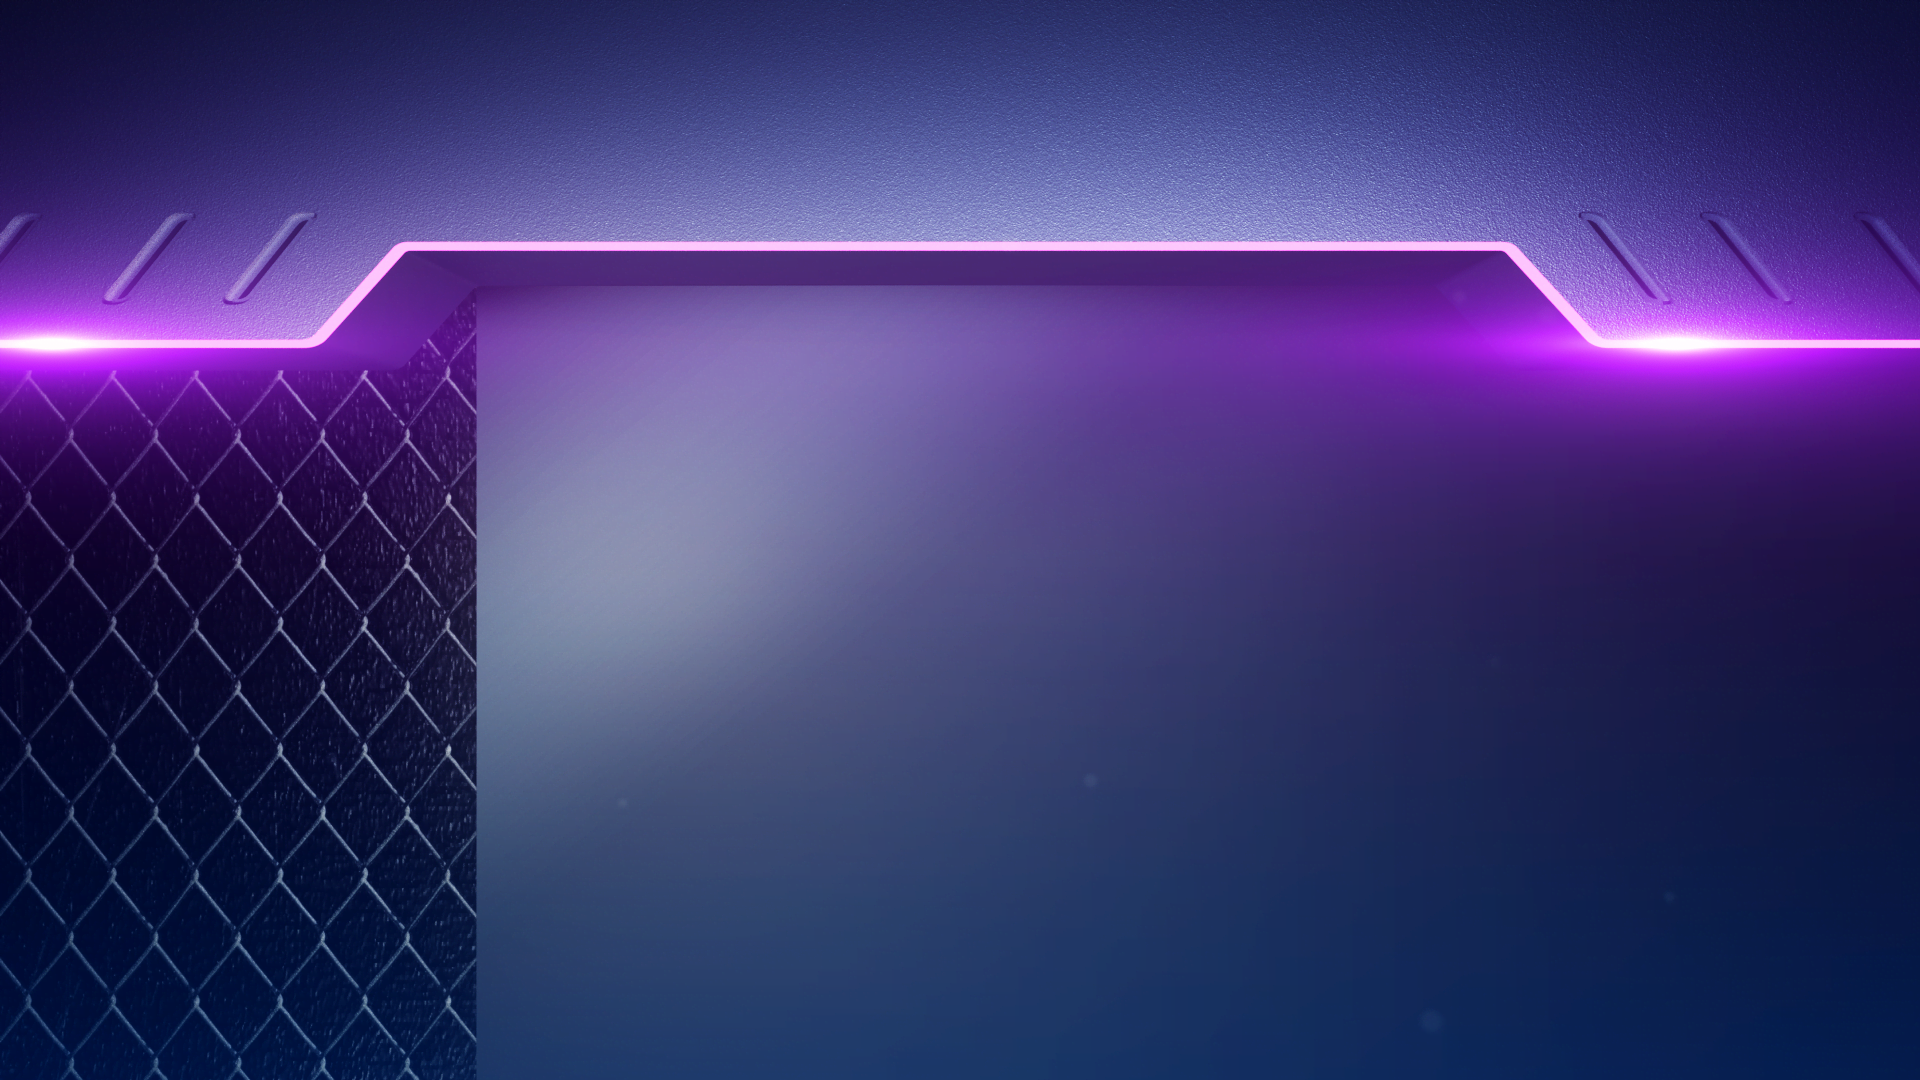
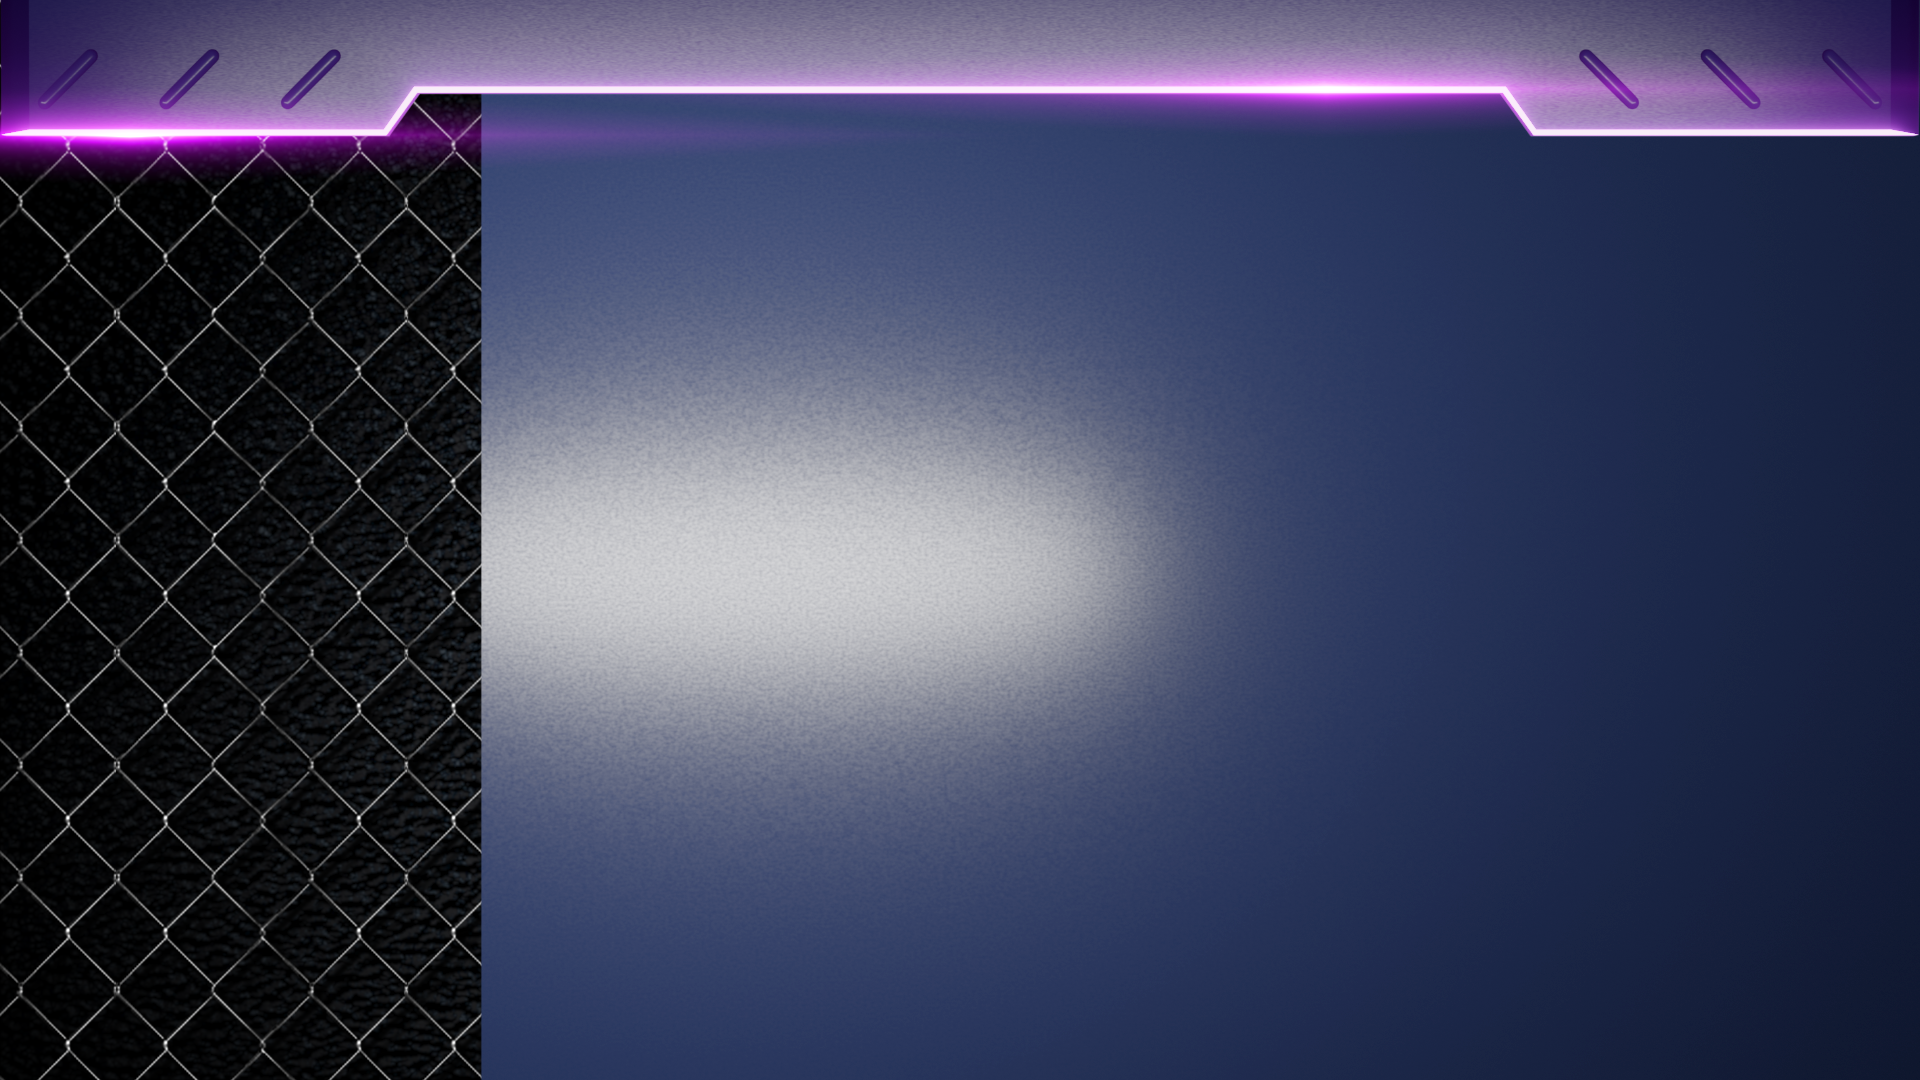
change layout all round for new background

diff --git a/src/app/views/main/main.component.html b/src/app/views/main/main.component.html
@@ -15,7 +15,7 @@
   <!-- body text -->
   <div class="container-fluid">
     <div class="row">
-      <div class="col-3 mt10 left-wrapper">
+      <div class="col-3 mt-30 left-wrapper">
         <!-- Round 4 Cube -->
         <div [hidden]="!currentRound && currentRound?.questionType == 4">
           <p class="clude_txt clude_txt_four" [ngStyle]="{'font-size': currentRound.clueLabelFontSize + 'px'}"
@@ -175,7 +175,7 @@
           *ngIf="control.showQuestion || control.runCategoryRound">
 
           <!-- //! for round 1 and round 5 -->
-          <div
+          <div 
             *ngIf="currentQuestion?.hints.length == 0 || (currentRound.questionType == 1 && currentQuestion.hints.length == 1)">
             <div class="long_word_green animated heartBeat long_retangle{{control.fontSettings.main_answer}} "
               *ngIf="!currentQuestion?.isAnsCharacter">
@@ -217,7 +217,7 @@
                   </ng-container>
                 </ng-container>
               </div>
-              <div style="margin-left: -30%; margin-top:22%" *ngIf="currentRound.questionType == 5">
+              <div style="margin-left: -30%; margin-top:14%" *ngIf="currentRound.questionType == 5">
                 <div class="one_word_blue retangle{{control.fontSettings.main_answer}} "
                   [ngClass]="{'animated heartBeat': control.showQuestion && !blockAnimated && !control.clickPoint && !control.fontSettingOpenClose, 'green_bg' : char.visible && control.showAns , 'hide_char' : char.word == ' '}"
                   *ngFor="let char of control.extraWord">

diff --git a/src/app/views/main/main.component.scss b/src/app/views/main/main.component.scss
@@ -11,7 +11,7 @@
 }
 
 .main_background .top-wrapper {
-    height: 27%;
+    height: 20%;
     position: relative;
     width: 100%;
 }
@@ -42,7 +42,7 @@ button {
     // text-align: center;
     //   font-size: 45px;
     // padding: 10px;
-    margin-top: 3%;
+    margin-top: 7%;
     p {
         display: inline;
     }
@@ -104,7 +104,7 @@ button {
     text-shadow: 0 0 0.5em #41faff, 0 0 0.5em #41faff, 0 0 0.5em #41faff;
     text-align: center;
     position: absolute;
-    top: 5%;
+    top: 3%;
     left: 40%;
     transform: translate(-50%, -50%);
     font-size: 60px;
@@ -125,7 +125,7 @@ button {
 
 .cube_img {
     position: absolute;
-    top: 28%;
+    top: 30%;
     left: 39%;
     transform: translate(-50%, -50%);
     width: 480px;
@@ -141,7 +141,7 @@ button {
 
 .clude_hint {
     position: absolute;
-    top: 28%;
+    top: 30%;
     left: 39%;
     transform: translate(-50%, -50%);
     /*   font-size: calc(0.3em + 1vw); */
@@ -161,7 +161,7 @@ button {
 }
 
 .alpha_wrapper {
-    top: 85%;
+    top: 97%;
     left: 56%;
     position: absolute;
     transform: translate(-50%, -50%);
@@ -972,7 +972,7 @@ button {
 }
 
 .roundtwo_alpha_body {
-    margin-left: 15%;
+    margin-left: 10%;
     margin-top: 1%;
 }
 
@@ -1212,4 +1212,8 @@ button {
 .WH_150px{
     width: 150px;
     height: 150px;
+}
+
+.mt-30{
+    margin-top: -30px;
 }

diff --git a/src/app/views/oneThirdScreen/oneThirdScreen.component.ts b/src/app/views/oneThirdScreen/oneThirdScreen.component.ts
@@ -105,12 +105,12 @@ export class OneThirdScreenComponent implements OnInit {
     }
 
     if (AppConfig.production) {
-      this.oneThirdBgImage.src = process.env.PORTABLE_EXECUTABLE_DIR + "/data/images/one_third_header.PNG";
+      this.oneThirdBgImage.src = process.env.PORTABLE_EXECUTABLE_DIR + "/data/images/one_third_header.png";
       this.cubeImage.src = process.env.PORTABLE_EXECUTABLE_DIR + "/data/images/cube.png";
       this.roundTowBgImage.src = process.env.PORTABLE_EXECUTABLE_DIR + "/data/images/one-third-round-2.png";
 
     } else {
-      this.oneThirdBgImage.src = "../../../assets/images/temp/one_third_header.PNG";
+      this.oneThirdBgImage.src = "../../../assets/images/temp/one_third_header.png";
       this.cubeImage.src = "../../../assets/images/temp/cube.png";
       this.roundTowBgImage.src = "../../../assets/images/temp/one-third-round-2.png";
     }

diff --git a/src/app/views/oneThirdScreen/oneThirdScreen.component.html b/src/app/views/oneThirdScreen/oneThirdScreen.component.html
@@ -244,7 +244,7 @@
   <div class="row" *ngIf="currentRound && currentRound.questionType == 2">
     <div class="col-sm-3">
     </div>
-    <div class="col-sm-6" style="margin-top: 69px;">
+    <div class="col-sm-6" style="margin-top: 140px;">
       <div style="height: 140px;">
         <div style="margin-top: 0px;" *ngIf="control.showQuestion">
           <!-- <img [src]="Images.round3_long_block" class="roundtwo_box" alt=""> -->
